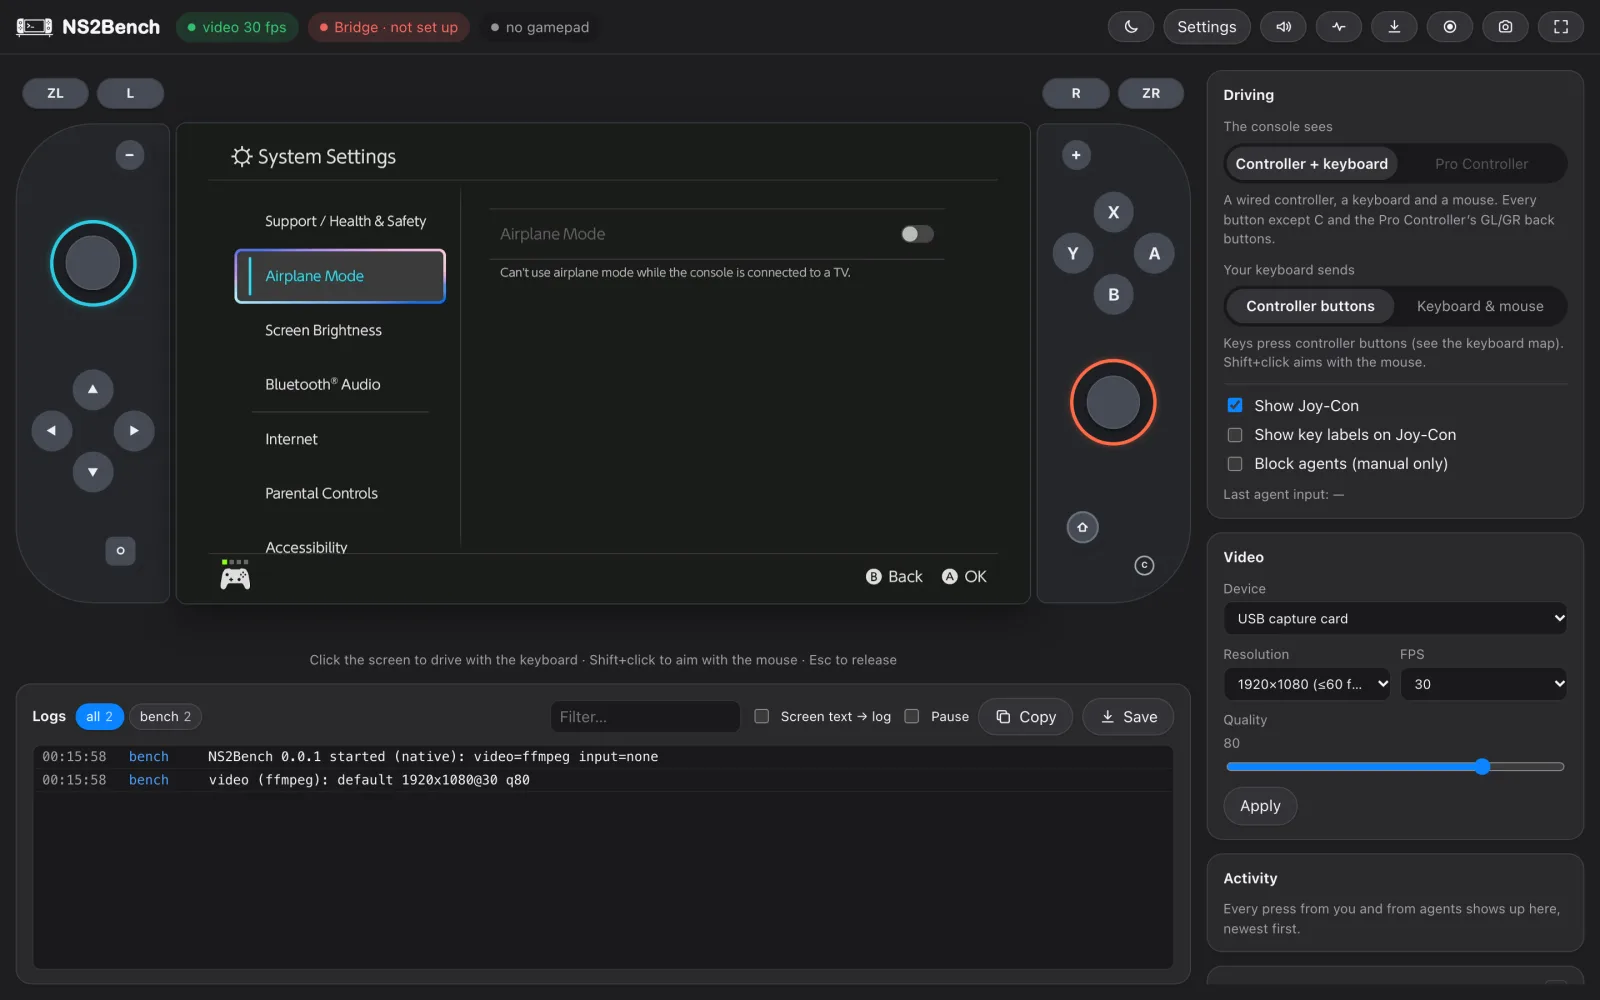
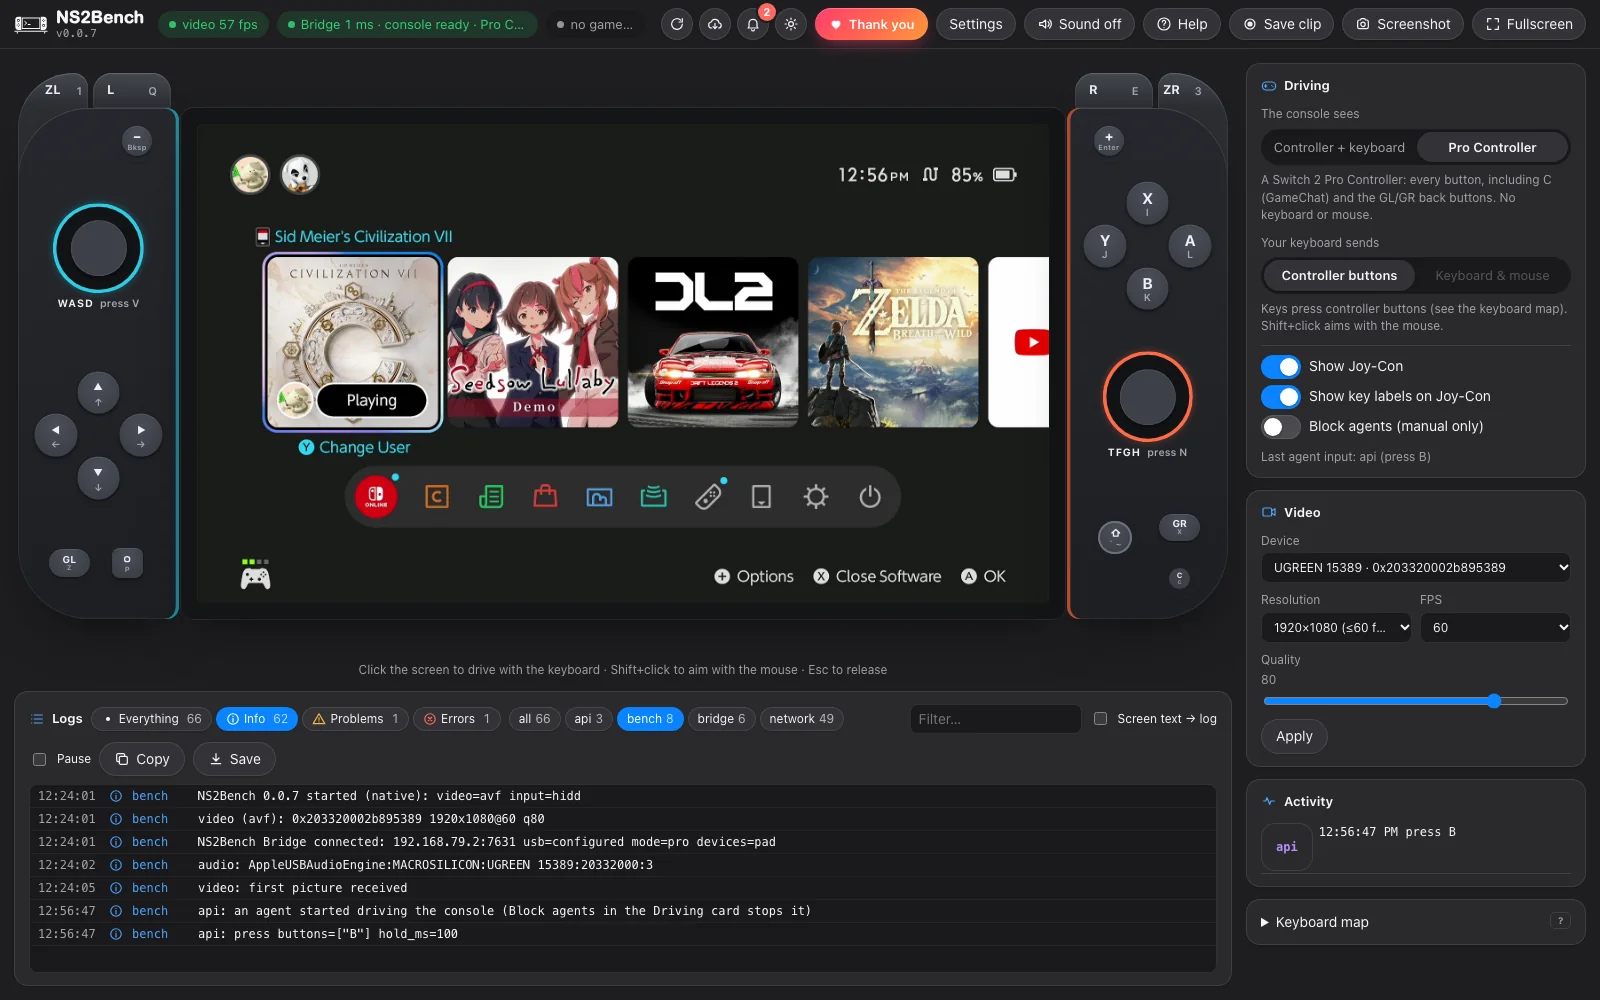
NS2Bench's new screenshot; latest releases
Claude-Session: https://claude.ai/code/session_01GtiJiKs93txhxmXhMBoDis

diff --git a/index.html b/index.html
@@ -244,7 +244,7 @@
         <a class="shot" href="https://ns2bench.phantomptr.com/" tabindex="-1">
           <picture>
             <source srcset="assets/shots/ns2bench-dark.webp" media="(prefers-color-scheme: dark)" />
-            <img src="assets/shots/ns2bench-light.webp" data-i18n-attr="alt:alt.ns2bench" alt="NS2Bench showing the console's System Settings with on-screen Joy-Con, the Driving and Video panels and logs" width="1600" height="1000" loading="lazy" decoding="async" />
+            <img src="assets/shots/ns2bench-light.webp" data-i18n-attr="alt:alt.ns2bench" alt="NS2Bench showing the console's HOME menu with on-screen Joy-Con, the Driving and Video panels and logs" width="1600" height="1000" loading="lazy" decoding="async" />
           </picture>
         </a>
         <p data-i18n="ns2bench.text">
